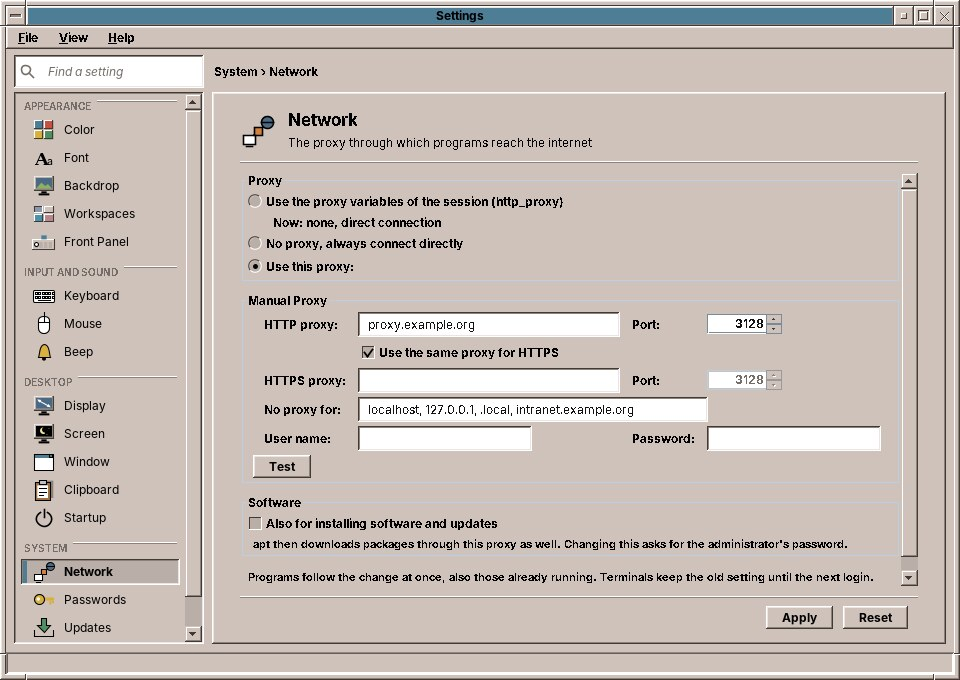
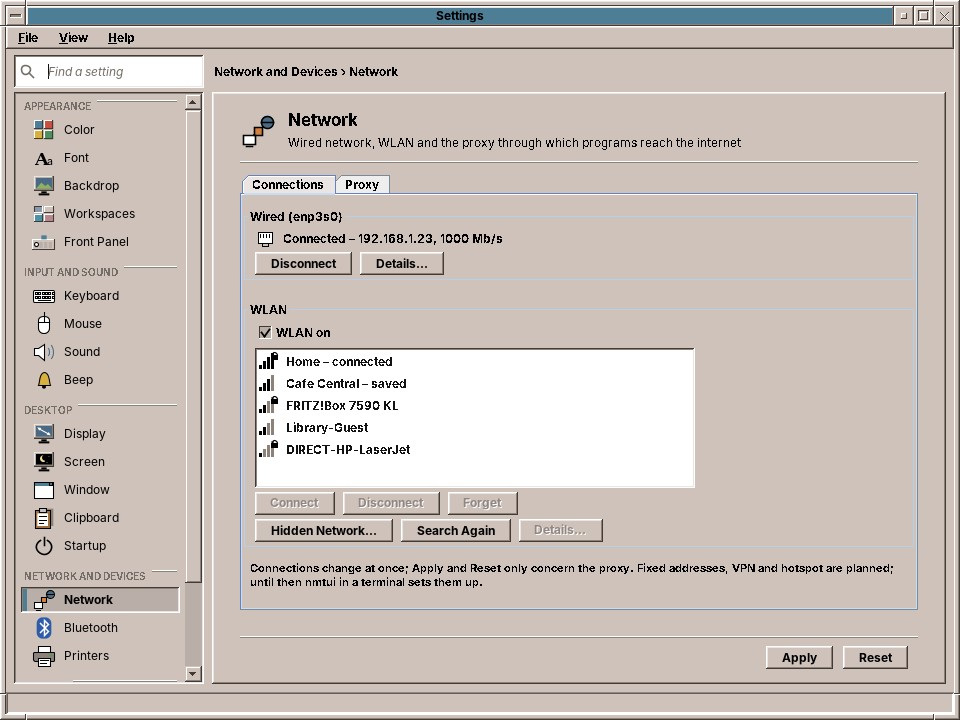
docs(handbook): Settings pages Network connections, Sound, Bluetooth and Printers, the Bluetooth cell
Chapter 38 becomes Network, Devices and System, chapter 33 gets the Sound page, chapter 22 the Bluetooth cell and the second status slot; chapters 27, 30, 37, 54, appendix E, the screenshot scenes and the ROADMAP follow.

Claude-Session: https://claude.ai/code/session_017Pd6NZFUc7GWhoEUrzSFhb

Changed region(s): [[0.0, 0.0, 1.0, 1.0], [0.9375, 0.3706, 0.9688, 0.4015]]

diff --git a/docs/handbook/chapters/38-passwords-updates-language.md b/docs/handbook/chapters/38-passwords-updates-language.md
@@ -1,10 +1,35 @@
-# 38. Network, Passwords, Updates and Language
+# 38. Network, Devices and System
 
-The *System* group of Settings has the settings that reach below the desktop: the proxy through which programs reach the internet, the keyring with your passwords, the updates of the system, and the language and time zone.
+Two groups of Settings reach below the desktop. *Network and Devices* connects the computer: the wired network and the WLAN with the proxy through which programs reach the internet, the Bluetooth devices and the printers. *System* has the keyring with your passwords, the updates of the system, and the language and time zone.
 
 ## Network
 
-![The Network page](images/38/settings-network.jpg)
+The Network page has two tabs: **Connections** for the cable and the WLAN, and **Proxy**.
+
+### Connections
+
+![The Network page with its connections](images/38/settings-network.jpg)
+
+**Wired** shows the network cable: *Connected* with the address and the speed, *No cable plugged in*, or *Not connected*. **Disconnect** and **Connect** switch the wired connection off and on.
+
+**WLAN** lists the networks in reach with their signal strength; a lock means the network has a password. *connected* marks the one in use, *saved* those the computer knows and joins by itself.
+
+| Button | What it does |
+|---|---|
+| **Connect** | Joins the chosen network. For a protected network you type its password once; amadeOS remembers it. |
+| **Disconnect** | Leaves the network. The computer stays off it until you connect again. |
+| **Forget** | Deletes the saved password: the computer no longer joins the network by itself. |
+| **Hidden Network…** | Joins a network that does not announce its name: type its name (*SSID*) and password. |
+| **Search Again** | Looks for networks anew, for example after you switched on a phone's hotspot. |
+| **Details…** | The IPv4 and IPv6 addresses, the router (gateway), the name servers (DNS), the hardware address and the speed of the cable or the WLAN. |
+
+**WLAN on** switches the WLAN off, on a plane for example, and on again.
+
+The connections change at once; *Apply* and *Reset* belong to the proxy. Fixed addresses and VPNs are still set up in the terminal program `nmtui` (chapter 54).
+
+### Proxy
+
+![The Proxy tab](images/38/settings-proxy.jpg)
 
 In an office, a school or a library the way to the internet often leads through a **proxy**. The Network page sets it once for all of amadeOS: the amade applications (Audio Station, TV, the Mailer, News, the Image Viewer's maps, Software), the programs they start (the video player, `yt-dlp`, the backup), and everything you start from the Front Panel, Firefox and the terminals included.
 
@@ -26,6 +51,46 @@ Programs follow a change at once, even those already open. Terminals keep the ol
 
 !!! planned "Planned: automatic configuration"
     Some networks hand out their proxy through an automatic configuration file (PAC or WPAD). amadeOS does not read it yet; enter the proxy by hand.
+
+## Bluetooth
+
+![The Bluetooth page](images/38/settings-bluetooth.jpg)
+
+Bluetooth connects headphones, loudspeakers, mice, keyboards, game pads and phones without a cable. Most laptops have Bluetooth; a desktop computer can get it from a small USB stick. Without it, the page says that the computer has no Bluetooth adapter.
+
+**This Computer** switches Bluetooth on and off and names the computer as others see it. Phones that want to find the computer need **Visible to other devices**; it switches itself off after 3 minutes.
+
+**My Devices** are the devices paired with this computer, with their state and, for headphones and mice that tell it, their battery. A paired device connects by itself when you switch it on near the computer. **Connect** and **Disconnect** do it by hand; **Remove** forgets the device, which then has to be paired anew.
+
+To pair a new device:
+
+1. Put the device into pairing mode, usually by holding its Bluetooth or power button until a light blinks. Its manual says how.
+2. Click **Search for Devices**. The devices in reach appear under **Other Devices**, by name and an icon for their kind.
+3. Choose the device and click **Pair**.
+4. Some devices want a confirmation: a phone shows a number, and amadeOS asks *Does Pixel 7 show the number 123456?*. A keyboard asks you to type a number on it and press ++enter++. Older devices want a PIN, often `0000` or `1234`.
+
+Headphones paired and connected appear on the Sound page (chapter 33) and in the sound cell as an output; sound moves to them when you choose them. The **Bluetooth cell** of the Front Panel (chapter 22) shows the connected devices and connects the paired ones with one click.
+
+!!! sovereignty "Your data"
+    Visible or not, the computer only pairs with a device you chose on this page. A paired device is trusted: it may connect again by itself, so remove a device you give away.
+
+## Printers
+
+![The Printers page](images/38/settings-printers.jpg)
+
+The page lists the printers with their state, model, location and the jobs waiting; the default printer, the one programs offer first, says *(default)*. Most printers need nothing from you: a printer that can print without a driver (IPP Everywhere, AirPrint) appears by itself when it is switched on in your network or connected by USB.
+
+| Button | What it does |
+|---|---|
+| **Add…** | Searches the network and the USB ports for printers that print without a driver and lists them. Choose one, or type its address under **Or by Address**, such as `192.168.1.40` or `printer.local`; give it a name and a location, and **Add**. |
+| **Remove** | Removes the printer. Jobs waiting for it are cancelled. |
+| **Make Default** | Makes it the default printer. |
+| **Print Test Page** | Prints a page to check the printer. |
+| **Print Queue…** | Opens the Print Manager with the jobs (chapter 54). |
+
+Under **Defaults of** the chosen printer, set the **paper size** and **two-sided** printing (*Long edge* for pages to turn like a book, *Short edge* like a calendar) and **Save Defaults**. Programs start with these settings and can change them for one job in their print dialog.
+
+An older printer that needs a driver is added in the administration pages of CUPS (chapter 54).
 
 ## Passwords
 
@@ -63,4 +128,4 @@ Below, the page shows when the package lists were last checked and how many upda
     Dates, times and numbers follow the language of the desktop. Choosing their format separately, for example English texts with German dates, is planned.
 
 ??? hood "Under the hood"
-    The Network page writes `~/.config/amadeos/proxy.conf`; the password is in the keyring under `service amadeos account proxy`. The amade applications follow the file at once. At login the session turns it into the variables `http_proxy`, `https_proxy` and `no_proxy` (`/usr/libexec/amadeos-proxy-env`), and programs started from the desktop get them as they are at that moment. For apt, `/usr/libexec/amadeos-packages proxy` writes `/etc/apt/apt.conf.d/80amadeos-proxy`, which only root can read. The Passwords page talks to the keyring over the freedesktop.org Secret Service on the session bus; locking and unlocking use GNOME Keyring's own interface for its master password. The Updates page reads the same state as the updates cell and writes the automatic setting through `/usr/libexec/amadeos-packages` and `pkexec`. The language is written to `~/.config/amadeos/locale.conf`; the time zone is set with `timedatectl set-timezone`, which polkit allows to administrators.
+    The *Connections* tab asks NetworkManager with `nmcli` (`device status`, `device wifi list`, `device show`) and changes connections with `nmcli device connect` and `nmcli device wifi connect`, which members of the group `netdev` may do without a password. The Bluetooth page speaks with the Bluetooth service `bluetoothd` (BlueZ) over the system bus, and answers the pairing questions as its agent; the user needs to be in the group `bluetooth`. The Printers page speaks IPP to CUPS like the Print Manager, finds printers with `lpinfo`, adds them with `lpadmin -m everywhere` (members of the group `lpadmin` may) and saves the defaults with `lpadmin -o`. The Proxy tab writes `~/.config/amadeos/proxy.conf`; the password is in the keyring under `service amadeos account proxy`. The amade applications follow the file at once. At login the session turns it into the variables `http_proxy`, `https_proxy` and `no_proxy` (`/usr/libexec/amadeos-proxy-env`), and programs started from the desktop get them as they are at that moment. For apt, `/usr/libexec/amadeos-packages proxy` writes `/etc/apt/apt.conf.d/80amadeos-proxy`, which only root can read. The Passwords page talks to the keyring over the freedesktop.org Secret Service on the session bus; locking and unlocking use GNOME Keyring's own interface for its master password. The Updates page reads the same state as the updates cell and writes the automatic setting through `/usr/libexec/amadeos-packages` and `pkexec`. The language is written to `~/.config/amadeos/locale.conf`; the time zone is set with `timedatectl set-timezone`, which polkit allows to administrators.

diff --git a/docs/handbook/chapters/27-network-sound-printing.md b/docs/handbook/chapters/27-network-sound-printing.md
@@ -11,7 +11,7 @@ For a **WLAN**, click the network cell. A menu lists the networks in reach with 
 | A network | Joins it. |
 | The current network | A submenu with **Disconnect** and **Forget network** (forget the password). |
 | **Search again** | Looks for networks anew. |
-| **Network settings…** | Opens the detailed settings in a terminal window, for fixed addresses, VPNs and hidden networks (chapter 54). |
+| **Network settings…** | Opens the Network page of Settings, with the wired network, hidden networks and the details of a connection (chapter 38). |
 
 If the cell shows a cross, there is no connection; *Not connected* in its tooltip, or *Network service is not running* if the network service itself has stopped (chapter 57).
 
@@ -41,7 +41,7 @@ Click the cell for its menu:
 
 Two shortcuts work without opening the menu: turn the **mouse wheel** over the cell to make it louder or softer in steps of 5 %, and click it with the **middle button** to mute. The tooltip names the volume and the output, for example *Volume 45 % · Built-in Audio Analog Stereo*. When the loudspeaker is grey and crossed out, the sound system is not running (chapter 57).
 
-A headset plugged in appears in the menu at once. Most programs also have a volume control of their own; it sets their share of the volume of the cell.
+A headset plugged in appears in the menu at once, and so do Bluetooth headphones once they are paired (chapter 38). Most programs also have a volume control of their own; it sets their share of the volume of the cell. The *Sound* page of Settings (chapter 33) has the same choices and more: a test tone for the left and right speaker, a level meter for the microphone and the profiles of the sound cards, for example for sound over HDMI.
 
 !!! switching "Coming from Windows or macOS"
     The sound cell is the speaker icon of the Windows taskbar or the sound control of the macOS menu bar, with the choice of the output and the input in one menu.
@@ -59,7 +59,7 @@ Click the **Print Manager** in the Front Panel to see them. It lists the printer
 - choose the **default printer**, the one programs offer first,
 - print a **test page**.
 
-If a printer does not appear by itself, open the Print Manager's drawer and choose **Add or Configure Printers**. That opens the administration page of the print system (CUPS) in the web browser, at <http://localhost:631>: *Administration → Add Printer*. Chapter 54 explains it in more detail.
+If a printer does not appear by itself, add it in Settings: **Printers** (chapter 38). **Add…** finds the printers in the network and on USB that print without a driver, or takes the address of one. The same page chooses the default printer, the paper size and two-sided printing. An older printer that needs a driver is added in the administration pages of the print system, CUPS (chapter 54).
 
 !!! cde "CDE heritage"
     The Print Manager follows CDE's `dtprintinfo`, which had its slot at the same place on the right of the Front Panel.
@@ -67,4 +67,4 @@ If a printer does not appear by itself, open the Print Manager's drawer and choo
 ??? hood "Under the hood"
     The sound cell talks to PipeWire through `pactl` (package `pulseaudio-utils`) and follows `pactl subscribe`, so a change made by another program shows at once. Volume and mute act on the default output, `@DEFAULT_SINK@`; choosing a device sets the default and moves the running streams with `pactl move-sink-input`.
 
-    The network cell asks NetworkManager through `nmcli`; members of the group `netdev` may change connections without a password (polkit rule `/usr/share/polkit-1/rules.d/50-amadeos-network.rules`). *Network settings…* runs `nmtui`. The Print Manager `amadeos-print` speaks the printing protocol IPP to CUPS directly, over its socket `/run/cups/cups.sock`; members of the group `lpadmin` may pause printers and choose the default without a password. The first user of an installed system and the live user are in both groups.
+    The network cell asks NetworkManager through `nmcli`; members of the group `netdev` may change connections without a password (polkit rule `/usr/share/polkit-1/rules.d/50-amadeos-network.rules`). *Network settings…* runs `amadeos-settings network`. The Print Manager `amadeos-print` speaks the printing protocol IPP to CUPS directly, over its socket `/run/cups/cups.sock`; members of the group `lpadmin` may pause printers and choose the default without a password. The first user of an installed system and the live user are in both groups.

diff --git a/docs/handbook/chapters/22-front-panel.md b/docs/handbook/chapters/22-front-panel.md
@@ -87,13 +87,22 @@ The **battery cell** below them appears only on a computer with a battery, such 
 
 ![The battery cell below the network cell: on battery at 86, 38 and 12 %, charging, plugged in and full, and a desktop computer without a battery](images/22/battery-cell.png)
 
+The **Bluetooth cell** appears only on a computer with Bluetooth. Its rune is **blue** while Bluetooth is on, with a dot for each connected device, and **grey** and crossed out while it is off. Point at it to see what is connected, for example *Bluetooth: WH-1000XM4 connected*. Click it for its menu:
+
+| In the Bluetooth menu | What it does |
+|---|---|
+| **Bluetooth** | Switches Bluetooth on and off. |
+| A paired device | Ticked while it is connected; a click connects or disconnects it, with its battery in brackets if it tells it, such as *MX Master 3 (55 %)*. |
+| **Bluetooth settings…** | Opens the Bluetooth page of Settings, for pairing new devices (chapter 38). |
+
 The **updates cell** appears only while software updates wait: an arrow into a tray with their number, on red when security updates are among them. Its menu offers *Install all updates*, *Install security updates only* and *Check now* (chapter 52).
 
-!!! planned "Planned"
-    A cell for Bluetooth will join the status slot.
+The status slot holds four cells. When more of them have something to show, a laptop with Bluetooth while updates wait for example, a second slot opens beside the first and closes again when it is no longer needed.
+
+![Five cells in two slots: network, sound, battery and Bluetooth with one device connected, and the updates cell in the second slot](images/22/status-slot-two.png)
 
 !!! cde "CDE heritage"
     The Front Panel follows CDE's: the clock and calendar on the left, the workspace switch with lock and EXIT in the middle, the Print Manager, Tools, Help and Trash Can on the right, and drawers ("subpanels" in CDE) above the slots. CDE's drawers were configured by hand; those of amadeOS fill themselves. The Games drawer and the status slot are new, and so is the language button, in the corner CDE left empty. CDE's busy light only blinked while an action started; the disk, network and install signals are new.
 
 ??? hood "Under the hood"
-    The Front Panel is the program `amadeos-panel-cde`, started by the session as `/usr/bin/amadeos-panel`. The drawers list the `.desktop` files in `/usr/share/applications` and `~/.local/share/applications` by their *Categories*: `FileManager`, `TextEditor` and `Office`, `Email` and `Network`, `AudioVideo`, `Graphics`, `Game`, `Printing`, `Settings` and `System`, `Documentation`. A program started from the panel writes its messages to `~/.cache/amadeos/logs/<program>.log`. The busy light reads `/proc/diskstats` (whole disks only) and `/proc/net/dev` (all interfaces but `lo`) four times a second, and looks for a running `dpkg` every two seconds. The battery cell reads `/sys/class/power_supply` every 20 seconds; the batteries of a wireless mouse or keyboard do not count, and two batteries in one laptop show as one.
+    The Front Panel is the program `amadeos-panel-cde`, started by the session as `/usr/bin/amadeos-panel`. The drawers list the `.desktop` files in `/usr/share/applications` and `~/.local/share/applications` by their *Categories*: `FileManager`, `TextEditor` and `Office`, `Email` and `Network`, `AudioVideo`, `Graphics`, `Game`, `Printing`, `Settings` and `System`, `Documentation`. A program started from the panel writes its messages to `~/.cache/amadeos/logs/<program>.log`. The busy light reads `/proc/diskstats` (whole disks only) and `/proc/net/dev` (all interfaces but `lo`) four times a second, and looks for a running `dpkg` every two seconds. The battery cell reads `/sys/class/power_supply` every 20 seconds; the batteries of a wireless mouse or keyboard do not count, and two batteries in one laptop show as one. The Bluetooth cell follows the signals of the Bluetooth service `bluetoothd` (BlueZ) on the system bus, and asks it again every 30 seconds, so an adapter plugged in later appears too.

diff --git a/ROADMAP.md b/ROADMAP.md
@@ -2,7 +2,7 @@
 
 What is open and planned comes first, then a timeline of what has been achieved, newest first. A feature counts as verified only with evidence from the QEMU live image or real hardware; merged work without that evidence is listed under *Waiting for a test*. The detailed notes of each milestone up to 2026-10-24 are in the git history (ROADMAP.md at commit `b58c372`).
 
-Status date: 2026-10-24
+Status date: 2026-10-27
 
 ## Project direction
 
@@ -52,7 +52,8 @@ flowchart TD
 Merged and installed by `buildDistribution.sh`, but so far only checked under Xvfb or in containers:
 
 - Settings with all its pages (Display, Font, Window, Workspaces, Front Panel, Passwords, Updates, Language, Startup), per-workspace names and backdrops, the seasonal themes.
-- Front Panel status slot: network, sound (`pactl`, not yet against PipeWire), battery (not yet on a laptop), updates; the busy light above EXIT.
+- Front Panel status slot: network, sound (`pactl`, not yet against PipeWire), battery (not yet on a laptop), Bluetooth (not yet against BlueZ and a real adapter), updates, the second slot; the busy light above EXIT.
+- Settings pages Network connections, Sound, Bluetooth and Printers: so far only with fake services under Xvfb; pairing, the sound card profiles and adding a printer need real devices.
 - Alt+Tab switcher, clipboard manager, bell through the sound card (Xvfb ignores `xset b`), gnome-keyring unlocked at login.
 - Software (M15): the end-to-end test in QEMU — first start loads the package lists, the polkit password window appears, a package gets installed, an update goes through the panel cell.
 - Installer (M14): the UEFI path (`run-qemu.sh --uefi`) and installing next to Windows, then the Zephyrus laptop (UEFI, NVMe, Secure Boot with the signed shim).
@@ -74,12 +75,12 @@ Merged and installed by `buildDistribution.sh`, but so far only checked under Xv
 ### M13 — Application suite
 
 - Terminal: an own terminal emulator, or a decision to keep xterm.
-- Network settings: an own dialog instead of `nmtui` in xterm.
+- Network settings: fixed addresses, VPN and a hotspot on the Settings Network page; connections, hidden WLANs and the proxy are there already, the rest is still `nmtui`.
 - amade-mail: test Gmail OAuth2 and decide whether to ship a datazuul OAuth client; IMAP IDLE with new-mail state in the in-tray; autoconfig (Thunderbird ISPDB, DNS SRV).
 - amade-contacts: meeting attendees in the Calendar, CardDAV.
 - amade-imageviewer: map tiles not yet tried against the live tile server.
 
-**Exit criteria:** each Front Panel slot opens an amadeOS application instead of an `xterm` command, and all applications follow the Settings theme. Only the terminal and the network settings are left.
+**Exit criteria:** each Front Panel slot opens an amadeOS application instead of an `xterm` command, and all applications follow the Settings theme. Only the terminal and parts of the network settings are left.
 
 ### M14 — Installation to disk
 
@@ -113,6 +114,10 @@ Built: the privileged helper `/usr/libexec/amadeos-packages` (apt through `pkexe
 ## Timeline
 
 Newest first. Numbers without a repository name are pull requests in this repository; amadeos-system is abbreviated *system*, amade-commons *commons*.
+
+### 2026-10-27
+
+- Settings: the Network page gets a *Connections* tab (wired, WLAN, hidden networks, details) next to the proxy, and new pages Sound (output, input, test tone, level meter, card profiles), Bluetooth (pairing with an own BlueZ agent) and Printers (driverless printers, default, paper size, two-sided) in a new group *Network and Devices*; a Bluetooth cell in the Front Panel, whose status slot opens a second slot for more than four cells; `bluez` and `libspa-0.2-bluetooth` in the image.
 
 ### 2026-10-26
 

diff --git a/docs/handbook/chapters/33-keyboard-mouse-beep.md b/docs/handbook/chapters/33-keyboard-mouse-beep.md
@@ -1,6 +1,6 @@
-# 33. Keyboard, Mouse and Beep
+# 33. Keyboard, Mouse, Sound and Beep
 
-Three small pages set how the keyboard and mouse react and how the desktop sounds. Each has a **Defaults** button, which puts the values of a new account back on the page; click *Apply* to keep them.
+The *Input and Sound* group sets how the keyboard and mouse react, which speakers and microphones the computer uses, and how the desktop beeps. Keyboard, Mouse and Beep each have a **Defaults** button, which puts the values of a new account back on the page; click *Apply* to keep them. The Sound page acts at once.
 
 ## Keyboard
 
@@ -33,6 +33,25 @@ The **Double-click test** box opens and closes when you double-click it at the s
 !!! tip "Double-click speed"
     Programs read the double-click time when they start. Programs that are already open keep the old one until you start them again.
 
+## Sound
+
+![The Sound page](images/33/settings-sound.jpg)
+
+The Sound page has everything of the sound cell (chapter 27) and more room for it. What you choose here takes effect at once, so the page has no *Apply*; the compact view shows only *Close*.
+
+| Part | What it does |
+|---|---|
+| **Output** | The speakers, headphones, HDMI screens and Bluetooth headphones. Click one to play through it; sounds that are playing move over at once. |
+| **Volume** and **Mute** | The volume of the chosen output, up to 150 %. Above 100 % the sound is made louder in software and can distort; use it for quiet laptop speakers. |
+| **Test sound** | **Left**, **Both** and **Right** play a short tone on that side, so you can hear whether the speakers are the right way round. |
+| **Input** | The microphones, built in, in a webcam or a headset. Click one to record from it. |
+| **Level** and **Mute** | How loud the microphone records. |
+| **Input level** | A bar that moves while you speak: if it stays still, the microphone hears nothing. |
+| **Sound Cards** | The **profile** of each card: which of its outputs and inputs it offers, for example the analog jacks or HDMI. A Bluetooth headset has two: *High Fidelity Playback* for good sound without its microphone, and *Headset* for calls, with the microphone but in telephone quality. |
+
+!!! tip "No sound over HDMI?"
+    A screen connected by HDMI plays sound only when the card's profile includes HDMI. Choose a profile with *HDMI* in its name under *Sound Cards*, then the screen under *Output*.
+
 ## Beep
 
 ![The Beep page](images/33/settings-beep.jpg)
@@ -48,4 +67,4 @@ The **beep** is the short sound the desktop and the programs make to say no, for
 **Test** plays the beep with the values shown. *Reset* goes back to the saved beep.
 
 ??? hood "Under the hood"
-    The three controls share one file, `~/.config/amadeos/input.conf`. *Apply* hands the settings to the X server with the standard tools `xset` (repeat, click, acceleration, beep), `xmodmap` (handedness) and `xrdb` (double-click time). At login, `/etc/amadeos/autostart.d/10-amadeos-input` runs `amadeos-settings input`, which applies the file again.
+    Keyboard, Mouse and Beep share one file, `~/.config/amadeos/input.conf`. *Apply* hands the settings to the X server with the standard tools `xset` (repeat, click, acceleration, beep), `xmodmap` (handedness) and `xrdb` (double-click time). At login, `/etc/amadeos/autostart.d/10-amadeos-input` runs `amadeos-settings input`, which applies the file again. The Sound page writes no file: it asks PipeWire with `pactl` (`list sinks`, `list sources`, `list cards`) and sets the volume, the default device and the card profile there (`set-sink-volume`, `set-default-sink`, `set-card-profile`), which remembers them for the next login. The test tone is played with `paplay`, the input level is read with `parec`.

diff --git a/docs/handbook/chapters/30-settings.md b/docs/handbook/chapters/30-settings.md
@@ -1,12 +1,12 @@
 # 30. Settings
 
-**Settings** is where you make the desktop your own: its colours, the size of its text, the picture behind the windows, the names of the workspaces and the Front Panel, how the keyboard, the mouse and the windows behave, the sound of the beep, the resolution of the monitors, the screen saver, the clipboard and what starts at login, and, for the system, the keyring, the updates, the language and the time zone. It grew out of CDE's Style Manager, and it can still look like it (see *The compact view* below).
+**Settings** is where you make the desktop your own: its colours, the size of its text, the picture behind the windows, the names of the workspaces and the Front Panel, how the keyboard, the mouse and the windows behave, the speakers and microphones, the sound of the beep, the resolution of the monitors, the screen saver, the clipboard and what starts at login, the network, Bluetooth and the printers, and, for the system, the keyring, the updates, the language and the time zone. It grew out of CDE's Style Manager, and it can still look like it (see *The compact view* below).
 
 ## Opening it
 
 - Open the **Tools** drawer of the Front Panel and choose **Settings** (chapter 22),
 - or choose **Settings…** in the Workspace Menu (right mouse button on the backdrop, chapter 24),
-- or type `amadeos-settings` in a terminal. `amadeos-settings mouse` opens it at the *Mouse* page, and so on for every control. The old name `amadeos-style` still works.
+- or type `amadeos-settings` in a terminal. `amadeos-settings mouse` opens it at the *Mouse* page, and so on for every control; `amadeos-settings proxy` opens the *Proxy* tab of the Network page. The old name `amadeos-style` still works.
 
 ![Settings](images/30/settings.jpg)
 
@@ -23,17 +23,21 @@ On the left, the controls are grouped by what they set. Click one, or move throu
 | | **Front Panel** | The clock and the status cells | 37 |
 | Input and Sound | **Keyboard** | Key repeat and key click | 33 |
 | | **Mouse** | Left or right hand, double-click speed, acceleration | 33 |
+| | **Sound** | Output and input, their volume, a test tone, the profiles of the sound cards | 33 |
 | | **Beep** | Volume, tone and length of the beep | 33 |
 | Desktop | **Display** | Resolution, refresh rate, rotation and arrangement of the monitors | 39 |
 | | **Screen** | Screen saver and screen lock | 34 |
 | | **Window** | How windows get the focus, come to the front and move | 35 |
 | | **Clipboard** | The clipboard history, and copies that outlive their program | 36 |
 | | **Startup** | Programs and desktop services started at login | 35 |
+| Network and Devices | **Network** | Wired network, WLAN and the proxy | 38 |
+| | **Bluetooth** | Switching it on, pairing and connecting devices | 38 |
+| | **Printers** | Adding printers, the default printer, paper size and two-sided printing | 38 |
 | System | **Passwords** | The login keyring: lock, unlock, change its password | 38 |
 | | **Updates** | Automatic security updates, the updates waiting | 38 |
 | | **Language** | The language of the desktop and the time zone | 38 |
 
-The pages of the *System* group change things for the whole computer or your keyring; some of them ask for the administrator's password on **Apply**.
+The pages of the *System* group change things for the whole computer or your keyring; some of them ask for the administrator's password on **Apply**. The pages *Sound*, *Bluetooth* and *Printers* have no *Apply*: what you do there happens at once, as on the network's *Connections* tab.
 
 ## Apply and Reset
 

diff --git a/docs/handbook/chapters/54-network-and-printers.md b/docs/handbook/chapters/54-network-and-printers.md
@@ -4,7 +4,7 @@ Chapter 27 covers the everyday: joining a WLAN, printing a page. This chapter is
 
 ## Network settings
 
-**Network settings…** in the menu of the network cell opens the detailed network settings in a terminal window. It is a text program, `nmtui`, worked with the keyboard: the arrow keys and ++tab++ move, ++enter++ chooses, ++esc++ goes back.
+The Network page of Settings (chapter 38) joins networks, hidden ones too, and shows the addresses of a connection. A fixed address and a VPN are still set up in `nmtui`, a text program of NetworkManager: type `nmtui` in a terminal. It is worked with the keyboard: the arrow keys and ++tab++ move, ++enter++ chooses, ++esc++ goes back.
 
 | In `nmtui` | What it is for |
 |---|---|
@@ -23,7 +23,7 @@ Some home networks, or a computer that serves others, need a fixed IP address:
 
 ### A hidden WLAN
 
-A network that does not announce its name does not appear in the menu of the network cell. Add it in *Edit a connection → Add → Wi-Fi* with its name (*SSID*) and password.
+A network that does not announce its name does not appear in the menu of the network cell. Join it in Settings: Network with **Hidden Network…** (chapter 38), giving its name (*SSID*) and password; the computer then joins it by itself like any other.
 
 ### VPN
 
@@ -37,7 +37,7 @@ nmcli connection import type wireguard file wg0.conf
 The VPN then appears in *Activate a connection*.
 
 !!! planned "Planned"
-    A network settings window in the style of the desktop, with fixed addresses, hidden networks and VPNs, so that the terminal is no longer needed.
+    Fixed addresses, VPNs and a hotspot on the Network page of Settings, so that the terminal is no longer needed.
 
 ### A proxy
 
@@ -61,7 +61,7 @@ You may cancel, hold and release your own jobs; pausing a printer and choosing t
 
 ### Adding a printer by hand
 
-Most printers appear by themselves (chapter 27). An older printer, or one in another network, is added in the administration pages of the print system, CUPS: *Printer → Add or Configure Printers…* opens <http://localhost:631> in the web browser.
+Most printers appear by themselves (chapter 27), and Settings: Printers adds any printer that prints without a driver, also one in another network by its address (chapter 38). An older printer that needs a driver is added in the administration pages of the print system, CUPS: *Printer → Add or Configure Printers…* in the Print Manager opens <http://localhost:631> in the web browser.
 
 1. *Administration → Add Printer*. The browser asks for a user name and password: yours.
 2. Choose the printer from the list (*Discovered Network Printers* or a USB printer), or give its address, for example `ipp://192.168.1.30/ipp/print`.

diff --git a/docs/handbook/chapters/37-workspaces-front-panel.md b/docs/handbook/chapters/37-workspaces-front-panel.md
@@ -26,6 +26,7 @@ This is the same name you get with a click on the current workspace button in th
 | **Network** | The network cell in the status slot at the right end of the Front Panel (chapter 27). | on |
 | **Sound** | The sound cell next to the network cell: volume, output and input (chapter 27). | on |
 | **Battery** | The battery cell, which appears only on computers with a battery (chapter 22). | on |
+| **Bluetooth** | The Bluetooth cell, which appears only on computers with Bluetooth (chapter 22). | on |
 | **Software updates** | The updates cell, which appears only while updates are waiting (chapter 52). | on |
 | **Show disk and network activity** | The busy light above EXIT also shows the disks in green and the network in cyan (chapter 22). When it is off, the light only blinks while a program starts, runs amber while software is installed and violet while a backup runs. | on |
 
@@ -37,4 +38,4 @@ The drawers of the Front Panel need no setting: they fill themselves with the pr
     The Front Panel sits at the bottom of the screen, as in CDE. Putting it at the top or a side is planned.
 
 ??? hood "Under the hood"
-    The names are in `~/.config/amadeos/workspaces.conf` (`workspace.2.name=Letters`), the Front Panel settings in `~/.config/amadeos/panel.conf` (`clock=analog` or `digital`, `cell.network`, `cell.updates`, `activity.meter`). The Front Panel watches both files; it publishes the workspace names to the window manager in the root window's `_NET_DESKTOP_NAMES` property.
+    The names are in `~/.config/amadeos/workspaces.conf` (`workspace.2.name=Letters`), the Front Panel settings in `~/.config/amadeos/panel.conf` (`clock=analog` or `digital`, `cell.network`, `cell.sound`, `cell.battery`, `cell.bluetooth`, `cell.updates`, `activity.meter`). The Front Panel watches both files; it publishes the workspace names to the window manager in the root window's `_NET_DESKTOP_NAMES` property.

diff --git a/docs/handbook/chapters/e-what-is-planned.md b/docs/handbook/chapters/e-what-is-planned.md
@@ -20,7 +20,6 @@ The *Planned* boxes of this book, collected in one place, sorted by where they b
 |---|---|
 | More keys for the windows: moving a window to another workspace, switching workspaces | 21, A |
 | Moving a window to another workspace, or showing it on all of them | 24 |
-| A Bluetooth cell in the Front Panel | 22, 27 |
 | Opening the windows of the last session again at login | 35, 55 |
 | Maximizing on one monitor, and the Front Panel on the primary monitor, with several monitors | 39 |
 | More or fewer than four workspaces | 37 |
@@ -28,7 +27,7 @@ The *Planned* boxes of this book, collected in one place, sorted by where they b
 | Formats of dates and numbers apart from the language | 38 |
 | Automatic proxy configuration (PAC, WPAD) | 38 |
 | A *Users* program for accounts | 53 |
-| A network settings window for fixed addresses, hidden networks and VPNs | 54 |
+| Fixed addresses, VPNs and a hotspot on the Network page of Settings | 38, 54 |
 | More panels than the CDE Front Panel | 55 |
 | More languages | 25 |
 

diff --git a/docs/handbook/chapters/plan.md b/docs/handbook/chapters/plan.md
@@ -37,7 +37,7 @@ Every chapter of the book, part by part. The book keeps growing with amadeOS: ne
 30. [Settings](30-settings.md)
 31. [Color](31-color.md)
 32. [Backdrop](32-backdrop.md)
-33. [Keyboard, Mouse and Beep](33-keyboard-mouse-beep.md)
+33. [Keyboard, Mouse, Sound and Beep](33-keyboard-mouse-beep.md)
 34. [Screen](34-screen.md)
 35. [Font, Window and Startup](35-font-window-startup.md)
 36. [Clipboard](36-clipboard.md)
